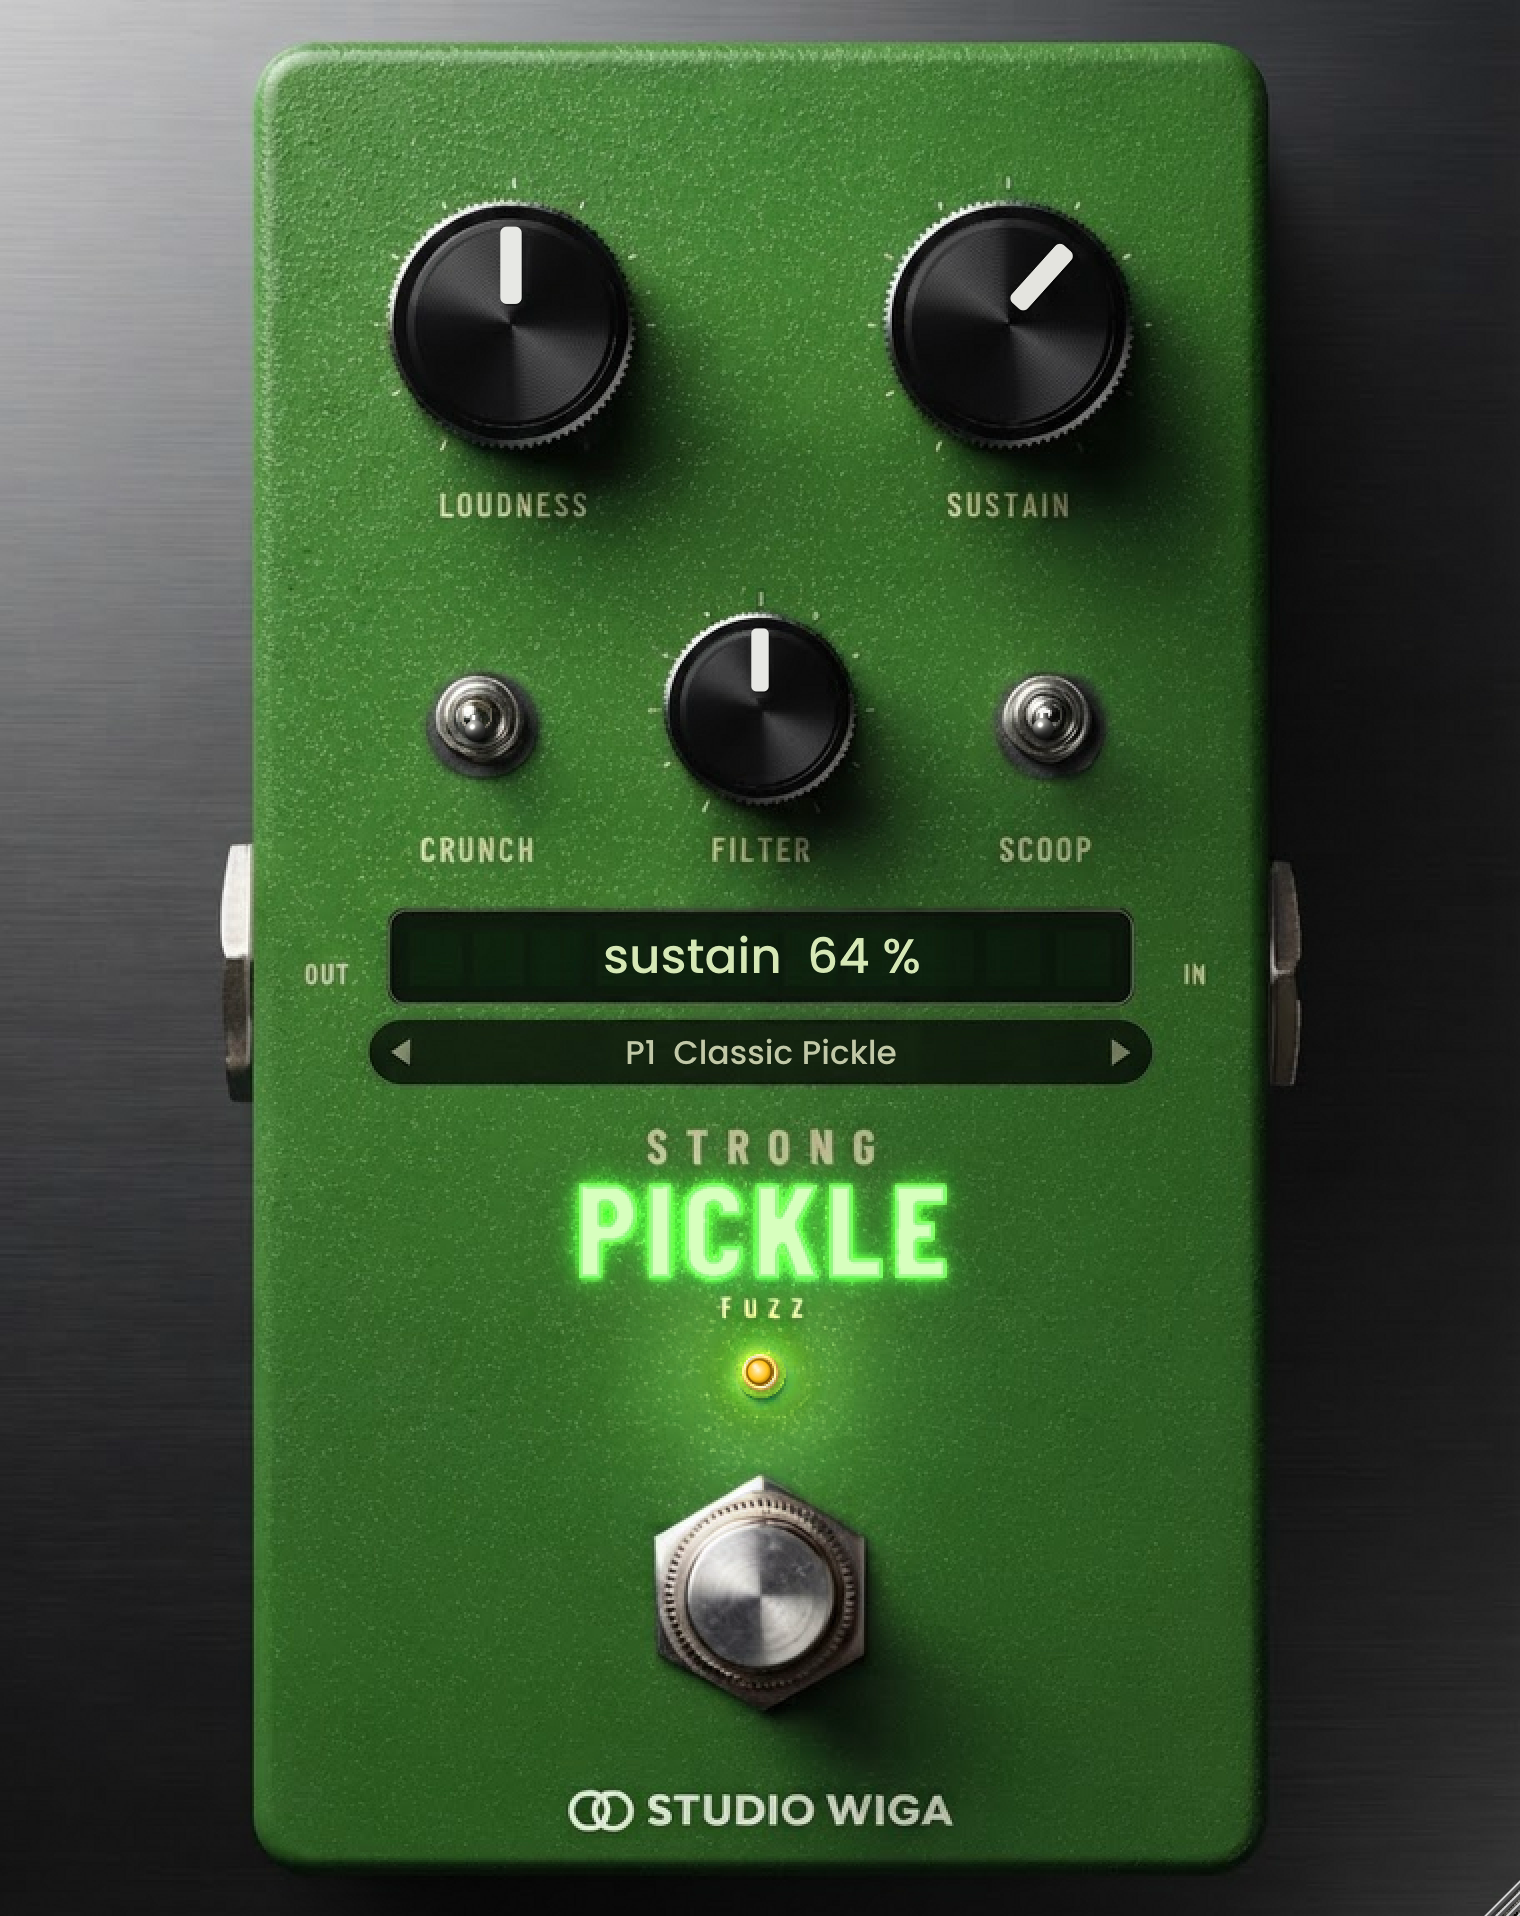
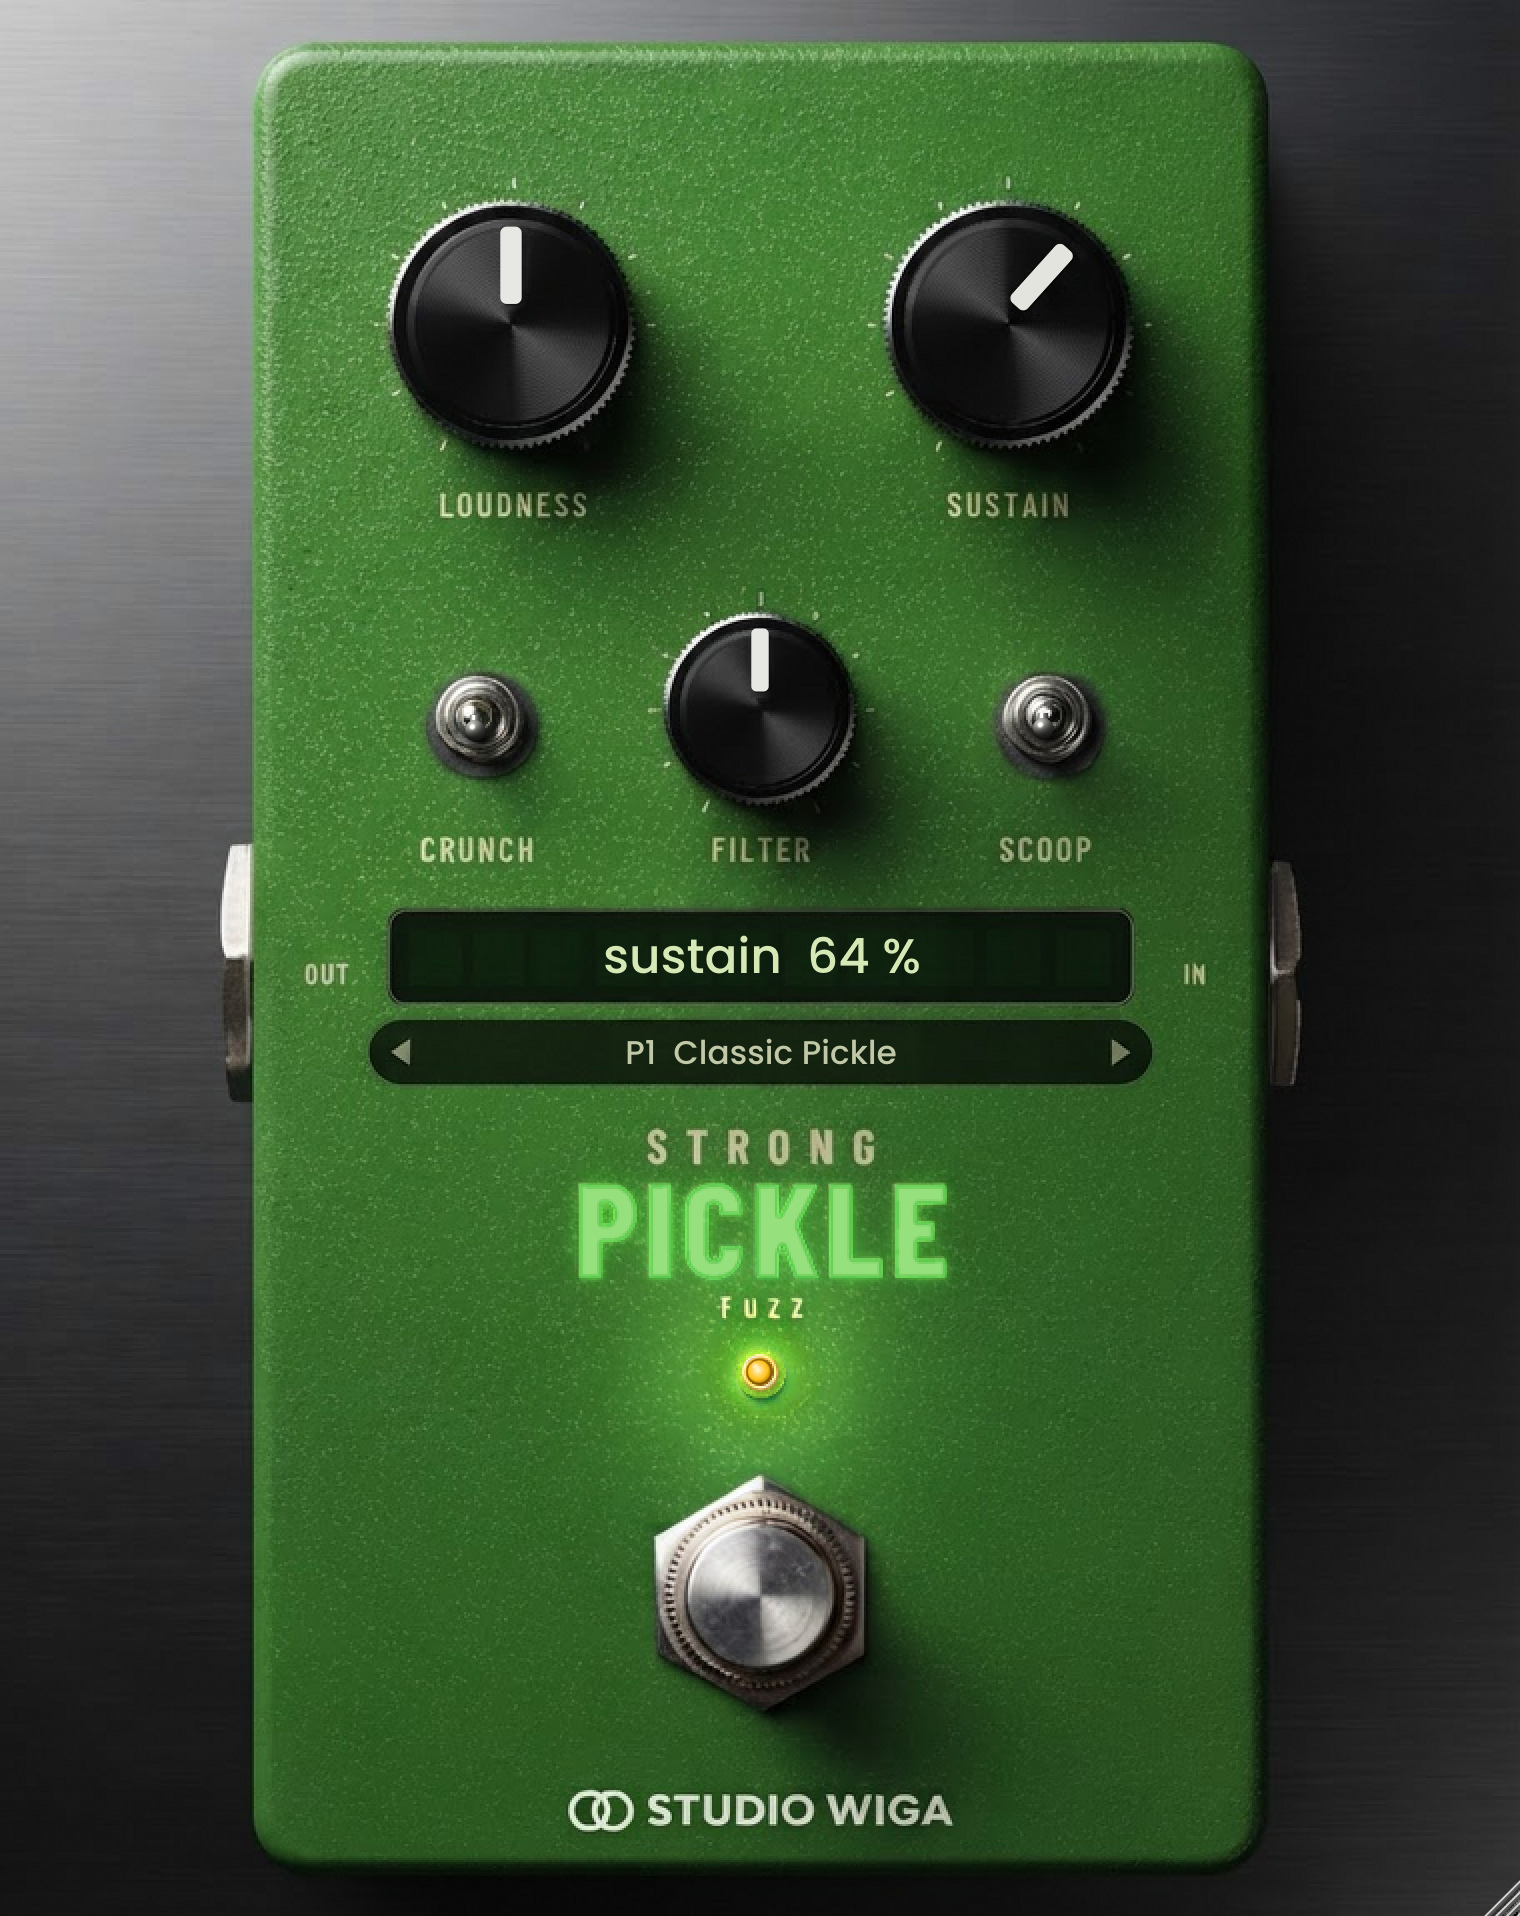
PICKLE allume : lueur verte plus douce
Claude-Session: https://claude.ai/code/session_01M5BvnKD25x5sTgnxyi1aHz

Changed region(s): [[0.3711, 0.6159, 0.6493, 0.6775]]

diff --git a/tools/make_background.py b/tools/make_background.py
@@ -249,17 +249,17 @@ base = img[py0:py0 + ph, px0:px0 + pw]
 # coeur des lettres : vert lumineux, plus clair au centre des traits (distance au bord)
 dist = cv2.distanceTransform((m > 0.5).astype(np.uint8), cv2.DIST_L2, 3)
 core = np.clip(dist / 5.0, 0, 1)[..., None]
-green_edge = np.array([70, 235, 60], np.float32); green_core = np.array([215, 255, 190], np.float32)
+green_edge = np.array([60, 185, 52], np.float32); green_core = np.array([150, 225, 125], np.float32)   # v1.0 : moins brillant (demande)
 letter_rgb = green_edge + (green_core - green_edge) * core
 halo1 = cv2.GaussianBlur(m, (0, 0), 3.0)
 halo2 = cv2.GaussianBlur(m, (0, 0), 14.0)
 glowc = np.array([80, 255, 60], np.float32)
-lit = base * (1 + (0.9 * halo1 + 1.6 * halo2)[..., None] * np.array([0.25, 1.0, 0.2], np.float32)) \
-      + (0.55 * halo1)[..., None] * glowc
+lit = base * (1 + (0.40 * halo1 + 0.55 * halo2)[..., None] * np.array([0.25, 1.0, 0.2], np.float32)) \
+      + (0.22 * halo1)[..., None] * glowc
 lit = lit * (1 - m[..., None]) + letter_rgb * m[..., None]
 lit = np.clip(lit, 0, 255)
 add = np.abs(lit - base).max(-1)
-a = np.clip(np.maximum(m, add / 45.0), 0, 1)
+a = np.clip(np.maximum(m, add / 60.0), 0, 1)
 srcp = np.where(a[..., None] > 1e-3, base + (lit - base) / np.maximum(a[..., None], 1e-3), base)
 pk = np.dstack([np.clip(srcp, 0, 255), a[..., None] * 255]).astype(np.uint8)
 Image.fromarray(pk, 'RGBA').save(os.path.join(ROOT, 'pickle_glow.png'))
